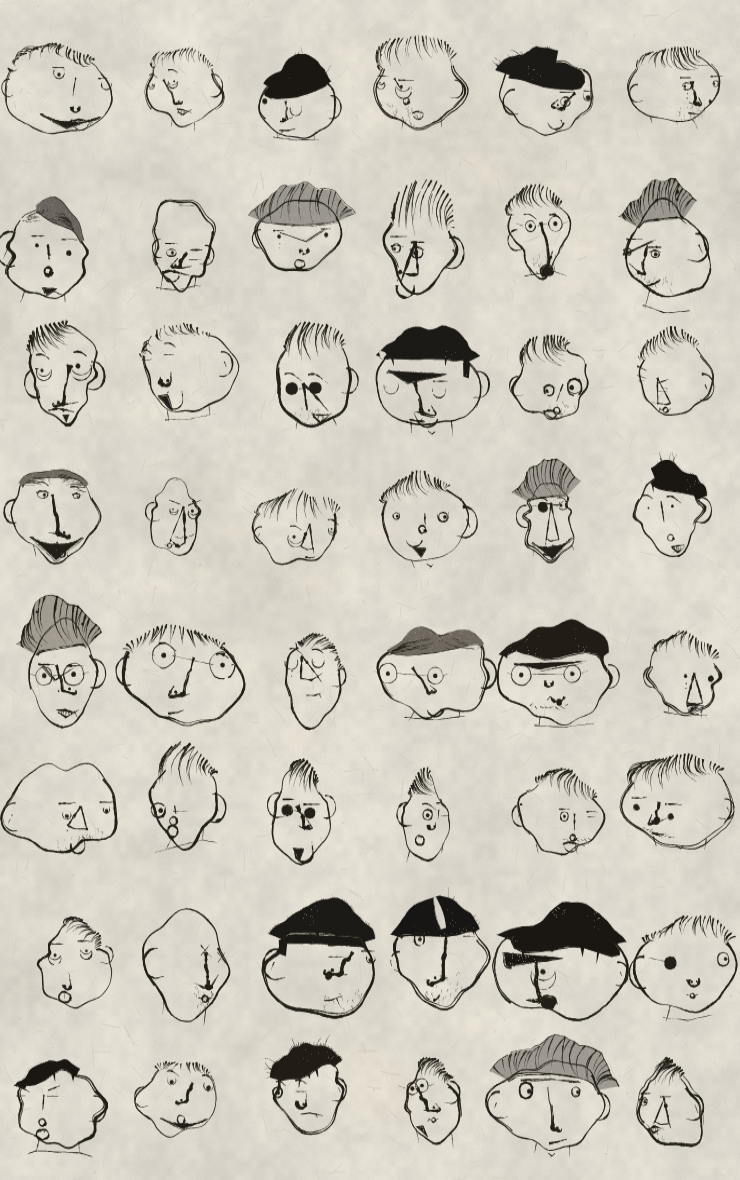
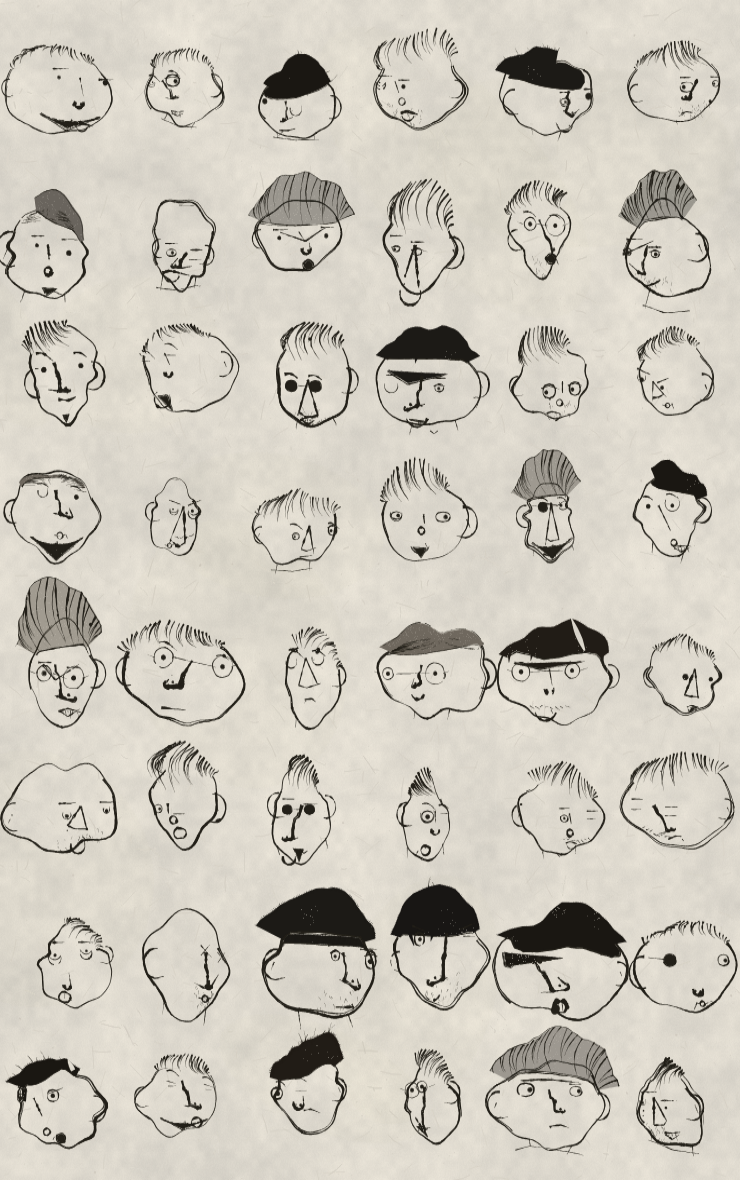
Gauntlet: reshape the cap silhouette, unstitch the sleeve
Two items left open by the last verification round.

The caps still repeated after the crown-arc geometry was fixed, because
every mass was still built the same way - a hairline plus the skull arc
pushed outward. One topology means the outer edge is always a scaled copy
of the cranium, so no amount of parameter variety changes what the eye
reads at grid scale. The outer edge is now reshaped in its own right:
piled into a quiff over one temple, ramped as a wedge across the crown,
domed with volume all round, cut off square as a flat top, or swept long
over one temple and cropped at the other. Hats pick their own profile.

And the cuff was a straight rule across the arm at the same fraction of
its length on both sides, which reads as the join where two tubes were
butted together rather than as a sleeve. It is now bowed, short of one or
both edges, at a different height on each arm, and absent about one
sleeve in five.

Claude-Session: https://claude.ai/code/session_01RJWY9ufwnD6fjwW6ve4one

diff --git a/dude.js b/dude.js
@@ -1111,8 +1111,9 @@
     const a = front[0];
     const b = front[front.length - 1];
     const puff = (opt.puff ?? 0.05) * skull.s;
-    const top = crownArc(skull, hull, a, b, puff, rng);
+    let top = crownArc(skull, hull, a, b, puff, rng);
     if (top.length < 2) return null;
+    top = outerProfile(top, skull, rng, opt);
     return { front, top, mass: front.concat(top) };
   }
 
@@ -1141,6 +1142,70 @@
     }
     if (!best || best.a.length < 3) return null;
     return { hi: best.a, lo: best.b, poly: best.a.concat(best.b.slice().reverse()) };
+  }
+
+  // Every mass so far was a hairline plus the skull arc pushed outward — one
+  // topology, so the outer edge was always a scaled copy of the cranium and
+  // the caps read as one shape however the parameters moved. These reshape
+  // the outer edge itself, which is the part that reads at grid scale.
+  function outerProfile(top, skull, rng, opt) {
+    const kind = opt.outer ?? rng.pick(["skull", "skull", "quiff", "flattop", "dome", "wedge", "wedge", "sweep"]);
+    if (kind === "skull") return top;
+    const n = top.length;
+    const s = skull.s;
+    const push = (p, amt) => {
+      const ox = p.x - skull.cx;
+      const oy = p.y - skull.cy;
+      const d = Math.hypot(ox, oy) || 1;
+      return { x: skull.cx + (ox / d) * (d + amt), y: skull.cy + (oy / d) * (d + amt) };
+    };
+    if (kind === "quiff") {
+      // piled up over one temple and falling away
+      const at = rng.f(0.12, 0.42);
+      const w = rng.f(0.1, 0.3);
+      const h = s * rng.f(0.16, 0.42);
+      return top.map((p, i) => {
+        const t = i / (n - 1 || 1);
+        const g = Math.exp(-Math.pow((t - at) / w, 2));
+        return push(p, h * g);
+      });
+    }
+    if (kind === "wedge") {
+      // rising steadily from one temple to the other
+      const h = s * rng.f(0.1, 0.32) * (rng.chance(0.5) ? 1 : -1);
+      return top.map((p, i) => {
+        const t = i / (n - 1 || 1);
+        return push(p, h * Math.sin(t * Math.PI * 0.5 + (h < 0 ? Math.PI * 0.5 : 0)));
+      });
+    }
+    if (kind === "dome") {
+      // volume all round, falling off at the temples
+      const h = s * rng.f(0.14, 0.4);
+      return top.map((p, i) => {
+        const t = i / (n - 1 || 1);
+        return push(p, h * Math.sin(t * Math.PI));
+      });
+    }
+    if (kind === "sweep") {
+      // combed hard to one side: long over one temple, cropped at the other
+      const dir = rng.chance(0.5) ? 1 : -1;
+      const h = s * rng.f(0.12, 0.34);
+      return top.map((p, i) => {
+        const t = i / (n - 1 || 1);
+        const u = dir > 0 ? t : 1 - t;
+        return push(p, h * Math.pow(u, 1.8));
+      });
+    }
+    // flattop: cut off square across the crown
+    let minY = Infinity;
+    for (const p of top) if (p.y < minY) minY = p.y;
+    const cut = minY + s * rng.f(-0.12, 0.06);
+    const tilt = rng.f(-0.12, 0.12);
+    return top.map((p, i) => {
+      const t = i / (n - 1 || 1);
+      const line = cut + (t - 0.5) * s * tilt;
+      return p.y > line ? p : { x: p.x, y: line + rng.f(-1, 1) };
+    });
   }
 
   function hairlineRing(skull, hl, wrap = 0.92) {
@@ -1479,7 +1544,7 @@
     }
 
     if (style === "beanie") {
-      const h = mk({ lineY: -0.44, bangs: 0.03, puff: 0.2, wob: 0.015 });
+      const h = mk({ lineY: -0.44, bangs: 0.03, puff: 0.2, wob: 0.015, outer: "dome" });
       if (h) {
         inkMassFill(c, rng, h.mass, color, { bite: s * 0.028 });
         // knit ribbing runs with the dome, not straight down
@@ -1501,7 +1566,7 @@
     }
 
     if (style === "flat") {
-      const h = mk({ lineY: -0.46, bangs: 0.02, puff: 0.09, wob: 0.02 });
+      const h = mk({ lineY: -0.46, bangs: 0.02, puff: 0.09, wob: 0.02, outer: "flattop" });
       if (h) {
         inkMass(c, rng, h, color, { strays: 0, rag: 1.1, edge: 3.2 });
         const bL = pinOut(skull, { x: -0.5, y: -0.3, z: 0.78 });
@@ -1516,7 +1581,7 @@
     }
 
     if (style === "baseball") {
-      const h = mk({ lineY: -0.44, puff: 0.15, wob: 0.015 });
+      const h = mk({ lineY: -0.44, puff: 0.15, wob: 0.015, outer: "dome" });
       if (h) {
         inkFill(c, rng, h.mass, color, 0.34, s * 0.01);
         c.save();
@@ -2323,11 +2388,24 @@
     // moved 1.56x and the legs 1.85x. A garment belongs to its torso.
     const hemY = shY + (hipY - shY) * rng.f(0.82, 1.34);
     const sleeveT = rng.f(0.36, 0.66);
+    // A straight rule across the arm at the same place on both sides reads as
+    // the seam where two tubes were butted together, not as a sleeve.
     const cuff = (S, side) => {
-      const i = Math.round(sleeveT * (S.length - 1));
+      if (rng.chance(0.22)) return; // not every sleeve gets marked
+      const t = sleeveT + rng.f(-0.12, 0.12);
+      const i = Math.max(1, Math.min(S.length - 2, Math.round(t * (S.length - 1))));
       const a = edgeOf(S, armR, -1, side < 0 ? 11 : 83)[i];
       const b = edgeOf(S, armR, 1, side < 0 ? 24 : 96)[i];
-      if (a && b) inkLine(c, rng, a.x, a.y, b.x, b.y, s * 0.016);
+      if (!a || !b) return;
+      const mx = (a.x + b.x) / 2;
+      const my = (a.y + b.y) / 2;
+      const bow = rng.f(-0.35, 0.35);
+      const short = rng.f(0, 0.22);
+      inkPoly(c, rng, [
+        { x: a.x + (b.x - a.x) * short, y: a.y + (b.y - a.y) * short },
+        { x: mx + (b.y - a.y) * bow * 0.3, y: my - (b.x - a.x) * bow * 0.3 },
+        { x: b.x - (b.x - a.x) * rng.f(0, 0.18), y: b.y - (b.y - a.y) * rng.f(0, 0.18) },
+      ], { w: s * rng.f(0.012, 0.02), dry: 0.8, wobble: s * 0.02 });
     };
 
     if (clothes.kind === "tee") {

diff --git a/progress.html b/progress.html
@@ -147,6 +147,12 @@
   <h3>“Black dots at the wrist — ball joints on a wooden figure.”</h3>
   <p>True, and it was the hand: drawn small with three or four knuckle ticks converging on its centre, which bunches into a solid knot. One tick at most now, on a hand half again as large.</p>
 
+  <h3>Why the caps still repeated after the geometry was right</h3>
+  <p>Even with the crown arc fixed, every mass was still built the same way: a hairline plus the skull arc pushed outward. One topology means the outer edge is always a scaled copy of the cranium, so however far the parameters moved the caps read as one shape. The outer edge is now reshaped in its own right — piled into a quiff over one temple, ramped as a wedge from one side to the other, domed with volume all round, cut off square as a flat top, or swept long over one temple and cropped at the other. Silhouette is what reads at grid scale, so that is the thing that had to differ.</p>
+
+  <h3>The sleeve that was reading as a seam</h3>
+  <p>A straight rule across the arm at the same fraction of its length on both sides is not a cuff, it is the join where two tubes were butted together — which is exactly what a critic called it. The mark is now bowed, short of one or both edges, at a different height on each arm, and absent about one sleeve in five.</p>
+
   <h2>Still open</h2>
   <ul>
     <li>Every round, the critics still identify our sheets and still rank both Mannay plates above them. The gap has narrowed — one round put ours above one of his — but he has not been beaten.</li>
